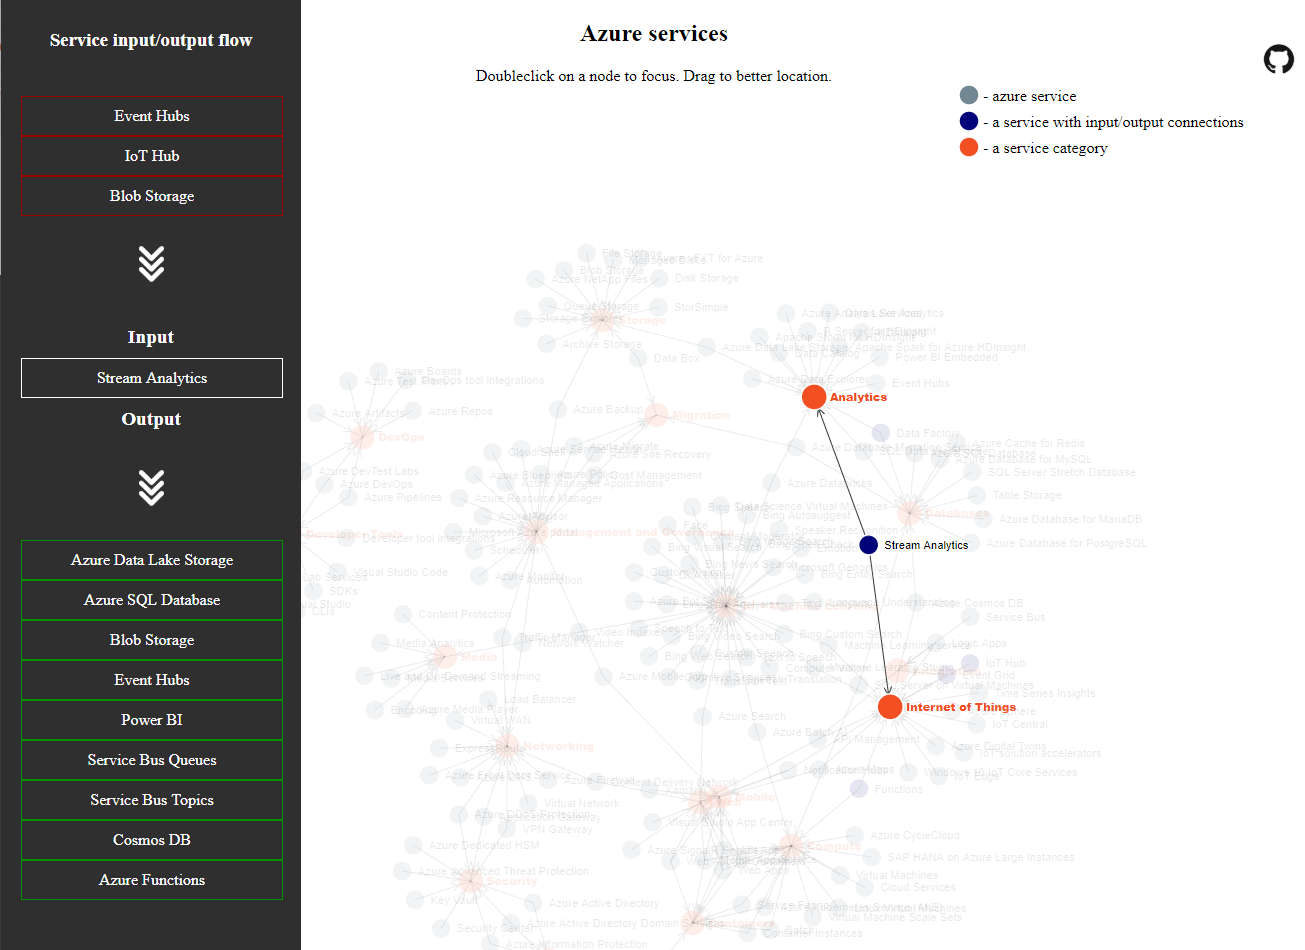
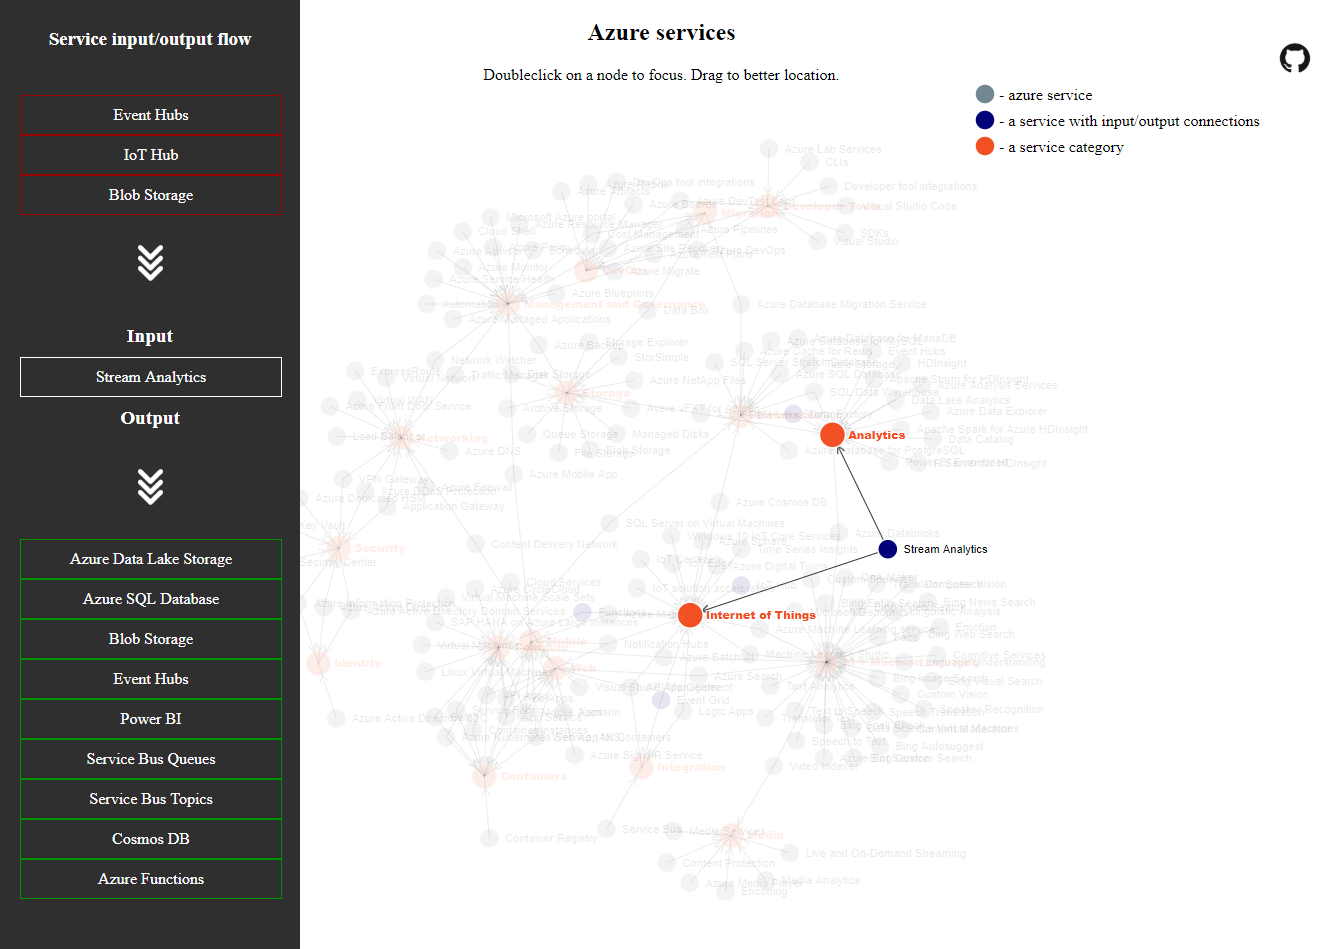
svg location tweak

diff --git a/css/style.css b/css/style.css
@@ -62,6 +62,10 @@ text {
   text-align: center;
 }
 
+#service-vs-group-map svg {
+  margin-top: -100px;
+}
+
 
 
 dl {
